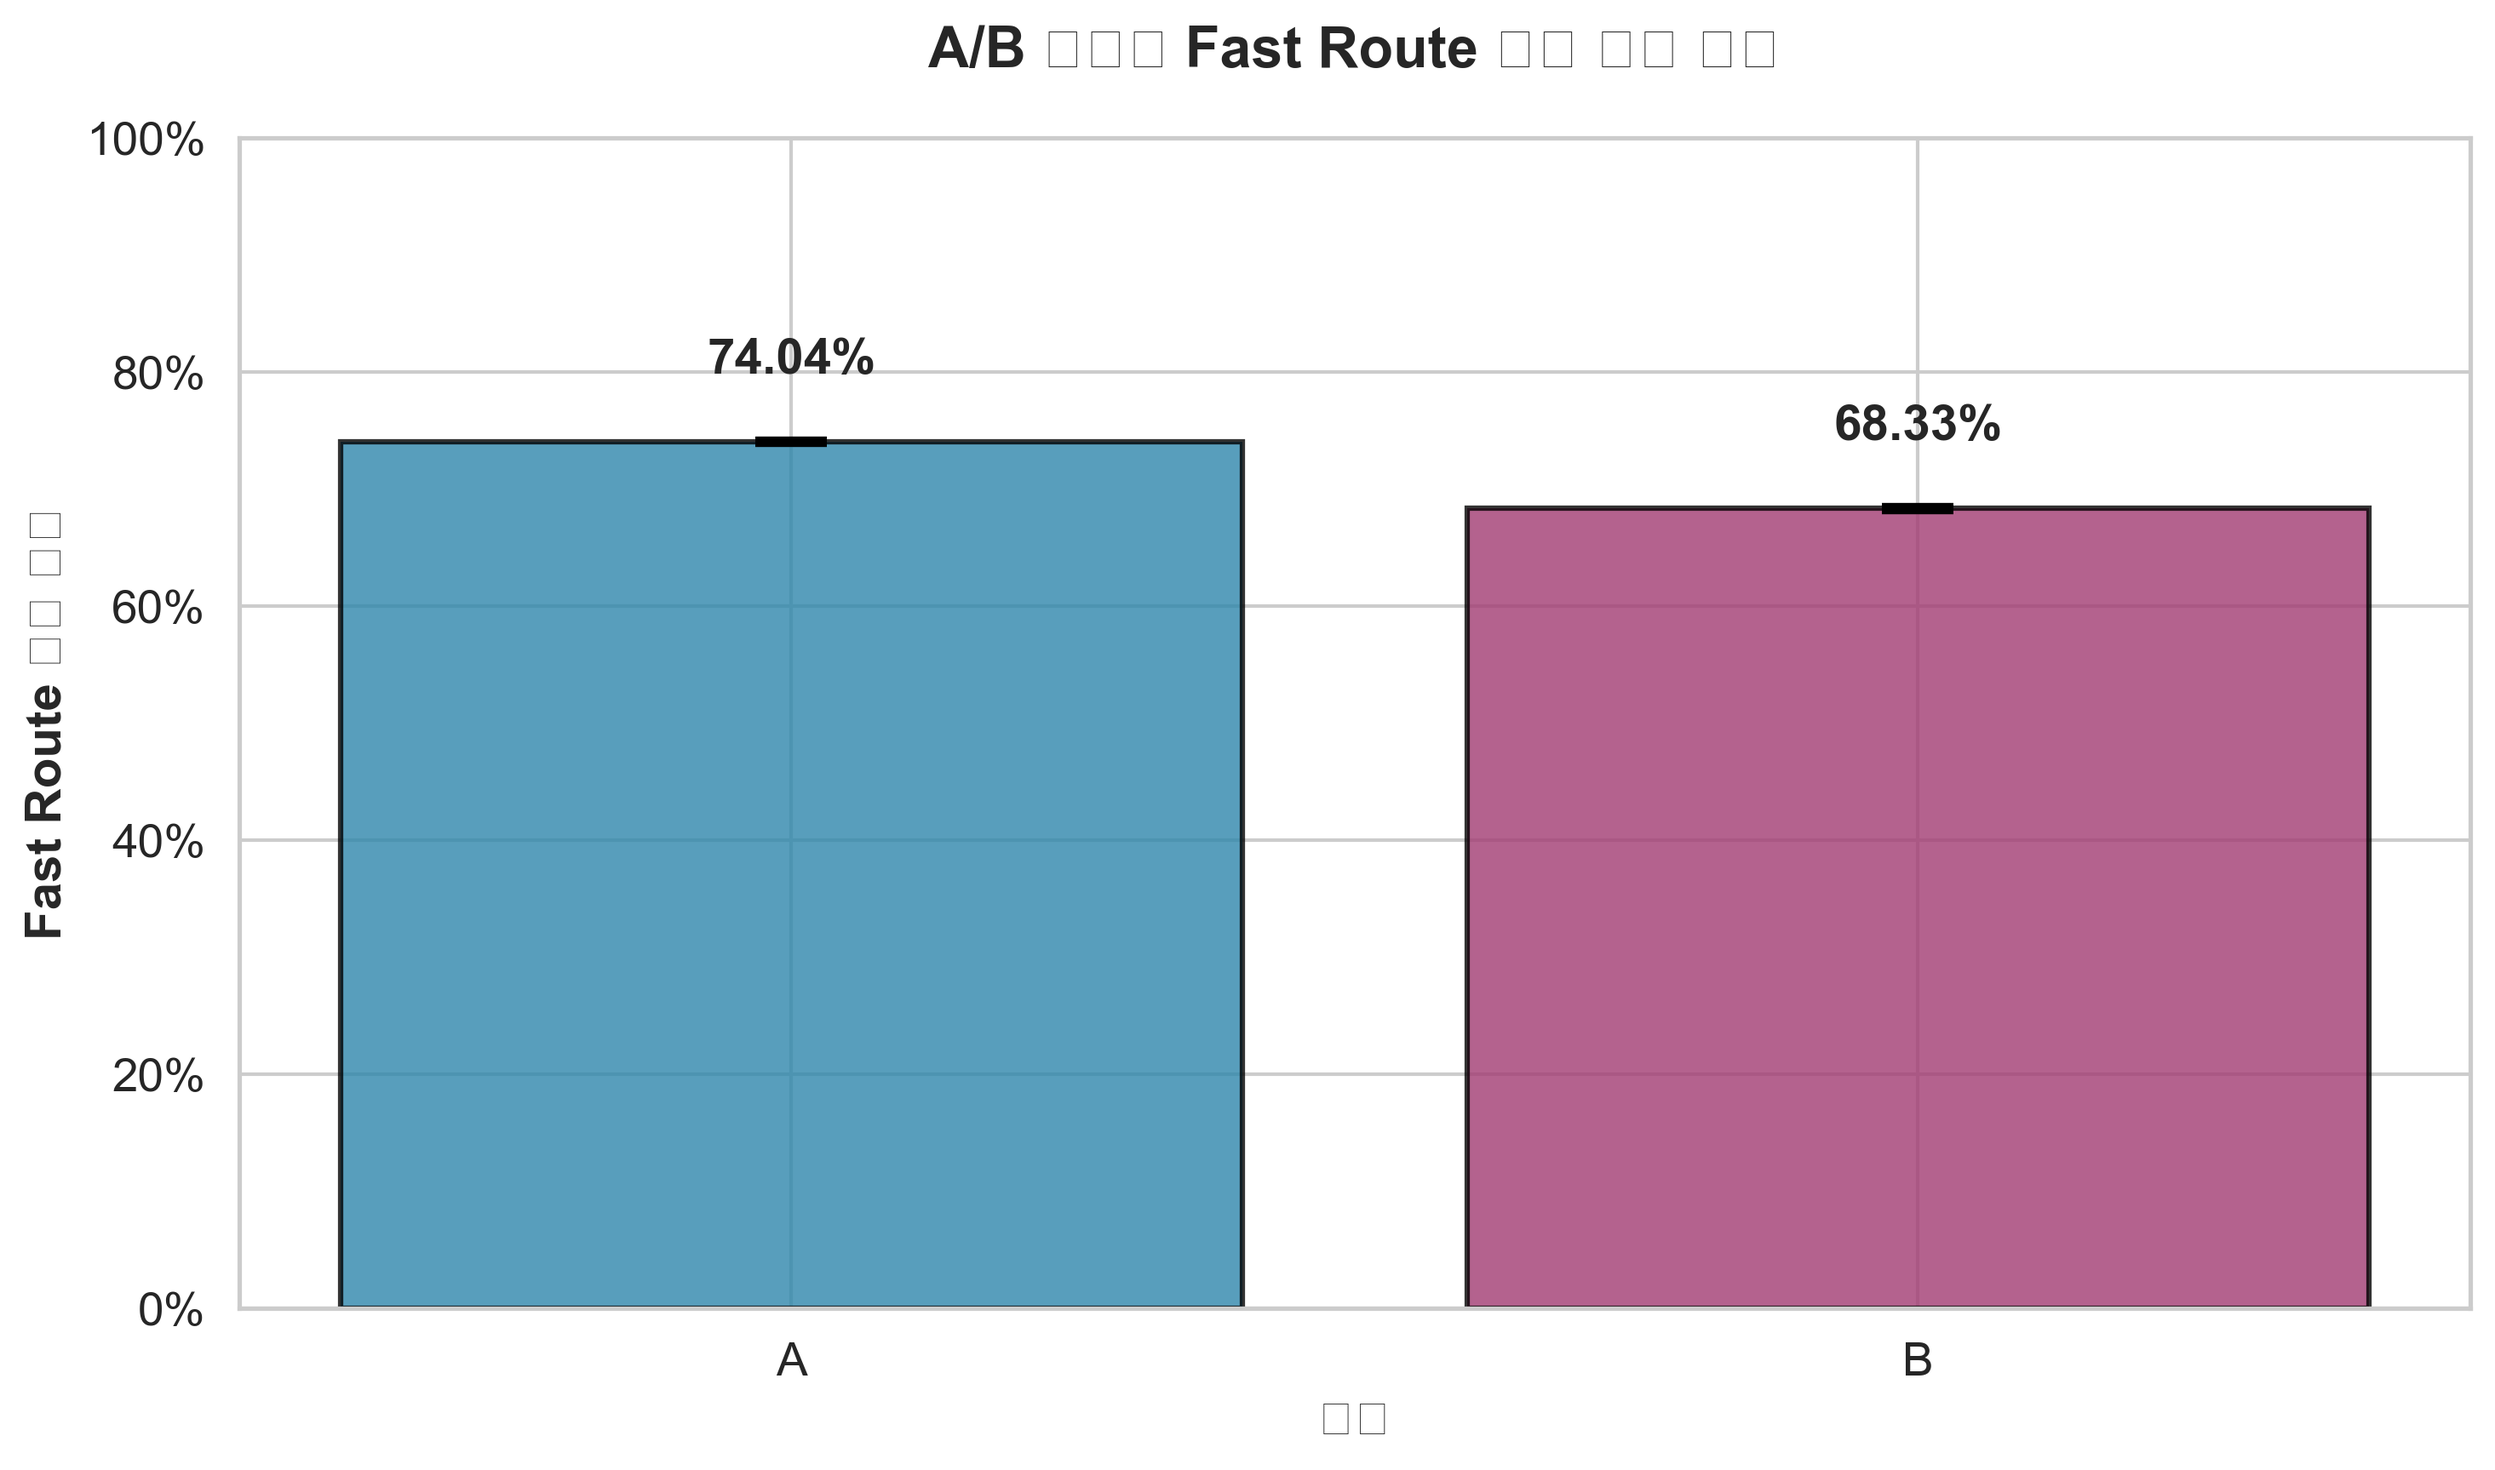
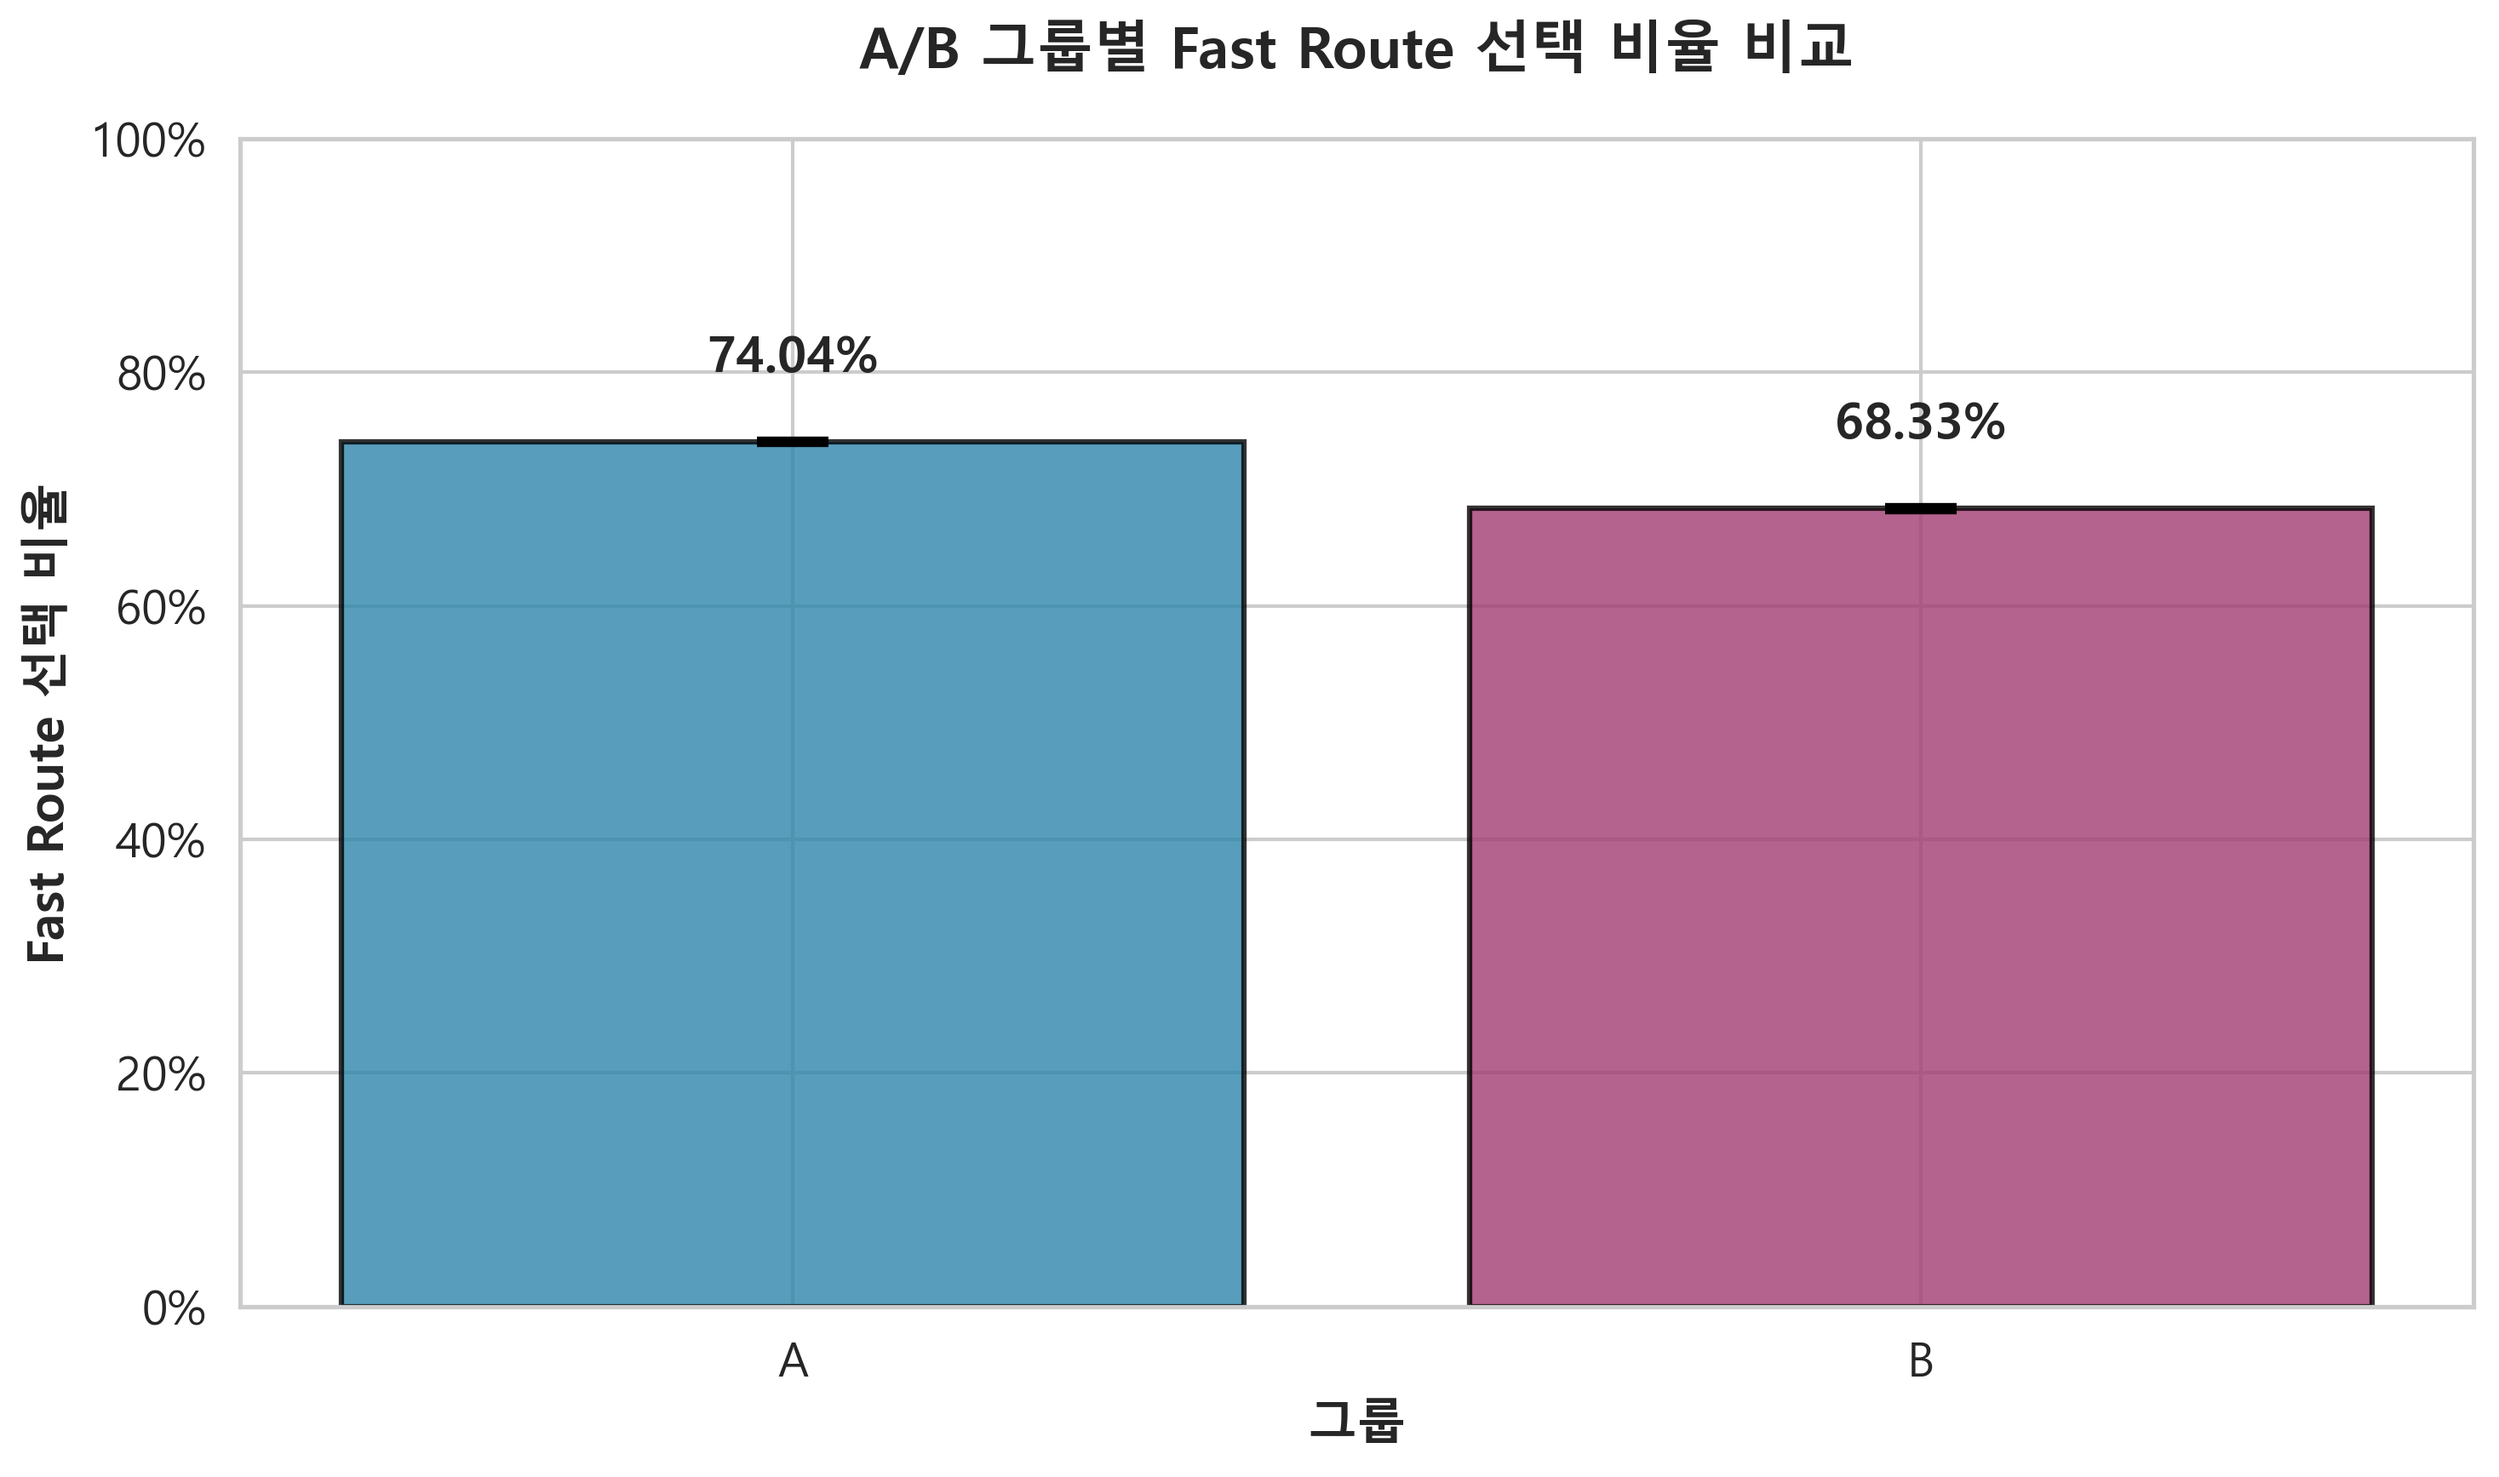
Fix Korean font: move rcParams after sns.set_style() to prevent override
sns.set_style() was resetting font.family rcParams, causing Korean text
to render as squares. Re-apply font settings after seaborn style setup
and regenerate all 8 PNG charts with Malgun Gothic.

🤖 Generated with [Claude Code](https://claude.com/claude-code)

diff --git a/analysis/visualization.py b/analysis/visualization.py
@@ -19,7 +19,7 @@ import matplotlib.font_manager as fm
 # 한글 폰트 설정 (Windows/Linux/macOS 호환)
 # 사용 가능한 한글 폰트 찾기
 available_fonts = [f.name for f in fm.fontManager.ttflist]
-korean_fonts = ['NanumGothic', 'Nanum Gothic', 'NanumBarunGothic', 'Malgun Gothic', 'AppleGothic', 'Noto Sans CJK KR']
+korean_fonts = ['Malgun Gothic', 'AppleGothic', 'NanumBarunGothic', 'Noto Sans CJK KR']
 
 font_name = None
 for font in korean_fonts:
@@ -59,6 +59,11 @@ print(f"[SEED] Random seed 설정: {config.RANDOM_SEED}")
 # 스타일 설정
 sns.set_style("whitegrid")
 sns.set_context("notebook", font_scale=1.2)
+
+# seaborn이 rcParams를 덮어쓰므로 폰트 재적용
+if font_name:
+    plt.rcParams['font.family'] = font_name
+plt.rcParams['axes.unicode_minus'] = False
 
 
 def load_data(file_path='data/synthetic_data_dynamic.parquet'):
